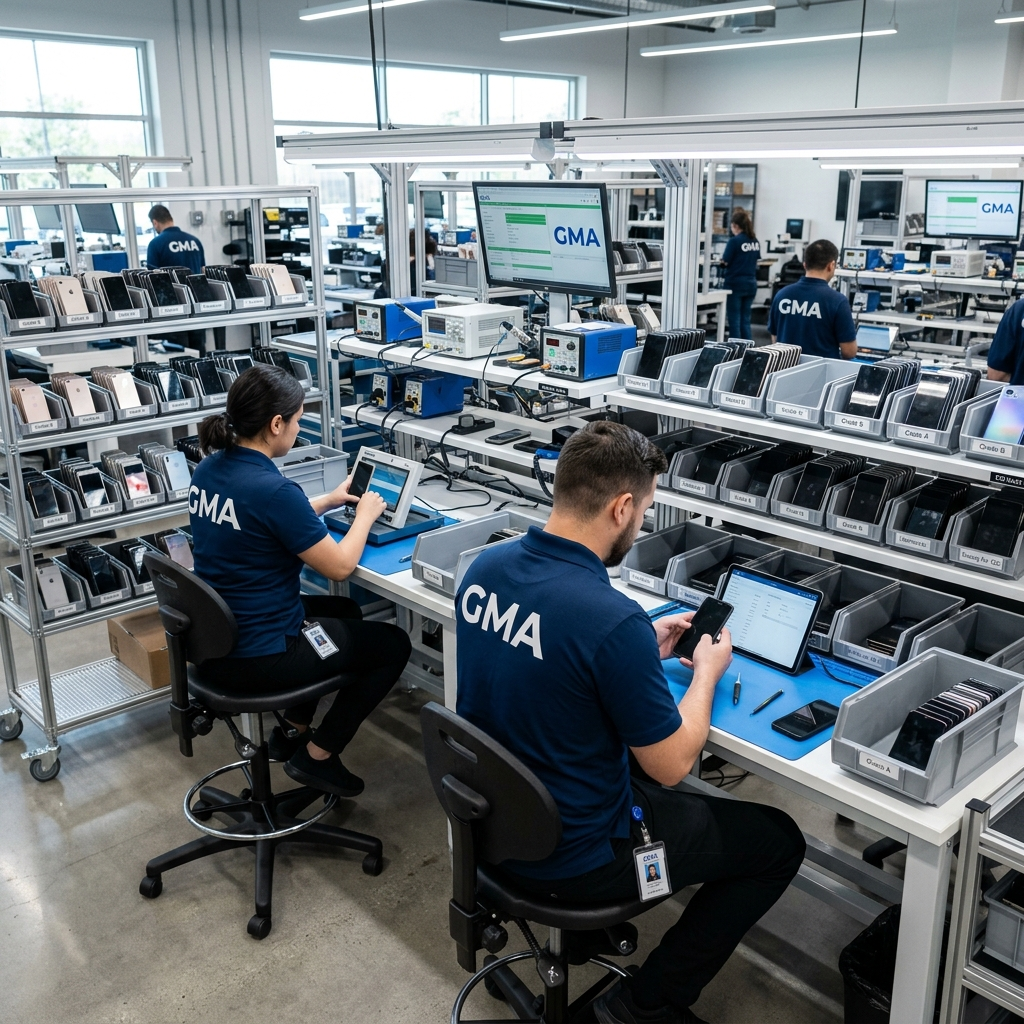
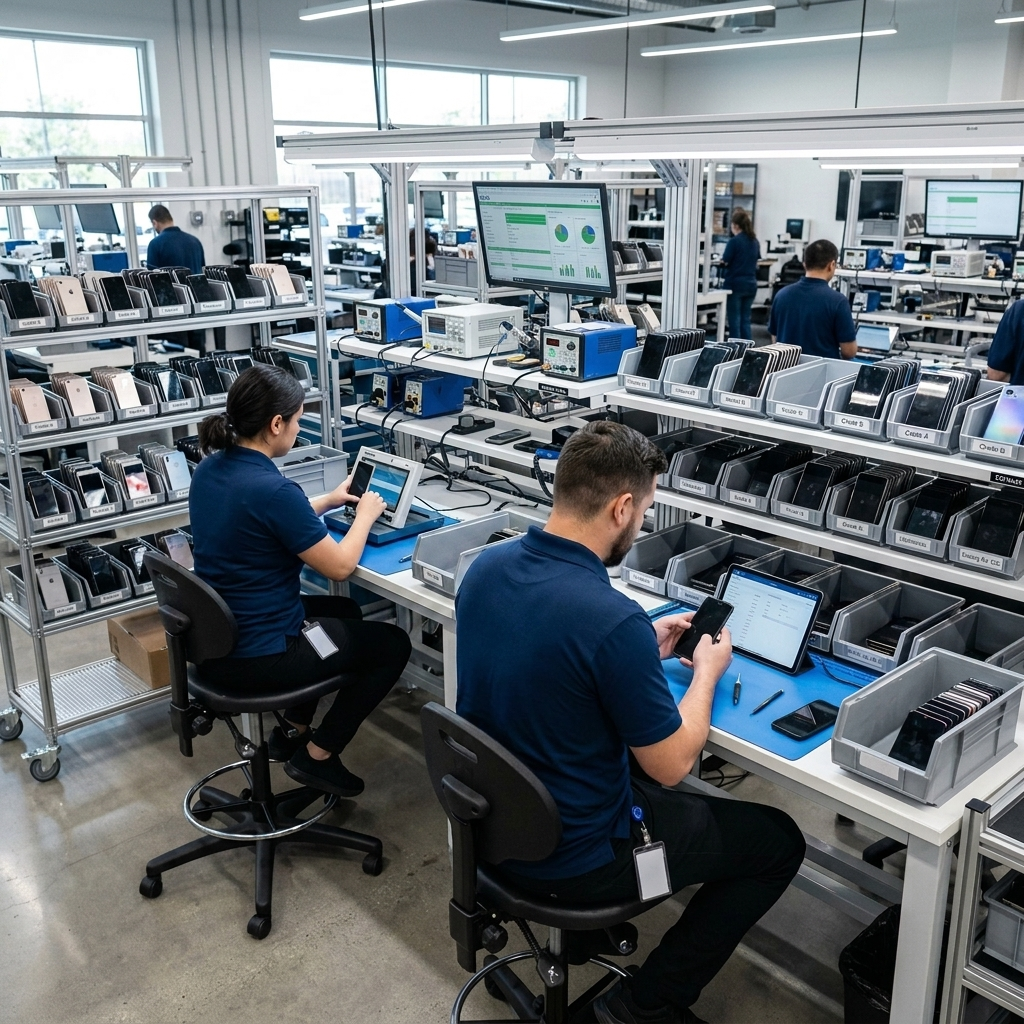
fixes

diff --git a/resources/css/app.css b/resources/css/app.css
@@ -52,6 +52,38 @@
         margin: 0;
         overflow-x: hidden;
     }
+
+    html {
+        scroll-behavior: smooth;
+    }
+
+    /* Custom Scrollbar */
+    ::-webkit-scrollbar {
+        width: 12px;
+        height: 12px;
+    }
+
+    ::-webkit-scrollbar-track {
+        background: rgba(0, 0, 0, 0.03);
+    }
+
+    ::-webkit-scrollbar-thumb {
+        background: linear-gradient(180deg, #40e0d0, #0055ff);
+        border-radius: 10px;
+        border: 3px solid transparent;
+        background-clip: padding-box;
+    }
+
+    ::-webkit-scrollbar-thumb:hover {
+        background: linear-gradient(180deg, #30c0b0, #0033cc);
+        border: 3px solid transparent;
+        background-clip: padding-box;
+    }
+
+    * {
+        scrollbar-width: thin;
+        scrollbar-color: #40e0d0 rgba(0, 0, 0, 0.03);
+    }
 }
 
 [data-flux-field]:not(ui-radio, ui-checkbox) {

diff --git a/resources/views/welcome.blade.php b/resources/views/welcome.blade.php
@@ -118,9 +118,9 @@
                         <button class="bg-gradient-to-r from-[#006a6a] to-[#009090] text-white font-label-md text-[13px] uppercase tracking-widest px-10 py-4 rounded-full shadow-lg transition-all duration-300 hover:scale-103 hover:shadow-[0_20px_40px_-10px_rgba(0,106,106,0.45)] active:scale-98">
                             Join GMA
                         </button>
-                        <button class="border-2 border-white/60 text-white font-label-md text-[13px] uppercase tracking-widest px-10 py-4 rounded-full transition-all duration-300 hover:scale-103 hover:bg-white/10 hover:border-white active:scale-98 shadow-sm">
+                        <a href="{{ route('about') }}" class="border-2 border-white/60 text-white font-label-md text-[13px] uppercase tracking-widest px-10 py-4 rounded-full transition-all duration-300 hover:scale-103 hover:bg-white/10 hover:border-white active:scale-98 shadow-sm text-center">
                             Learn How GMA Supports the Industry
-                        </button>
+                        </a>
                     </div>
                 </div>
             </div>